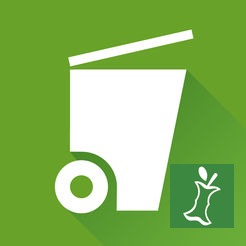
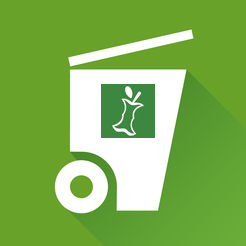
fix: center waste labels on bins

Changed region(s): [[0.6829, 0.6545, 0.9675, 0.939], [0.3984, 0.3415, 0.6545, 0.5691]]

diff --git a/custom_components/bin_collection/frontend/README.md b/custom_components/bin_collection/frontend/README.md
@@ -14,4 +14,4 @@ resources:
 ```
 
 The card uses the paired `Kliko_*_brand.png` assets: the matching
-waste-stream symbol is overlaid as a small badge on the right side of the bin.
+waste-stream symbol is overlaid as a small outlined label inside the bin body.
